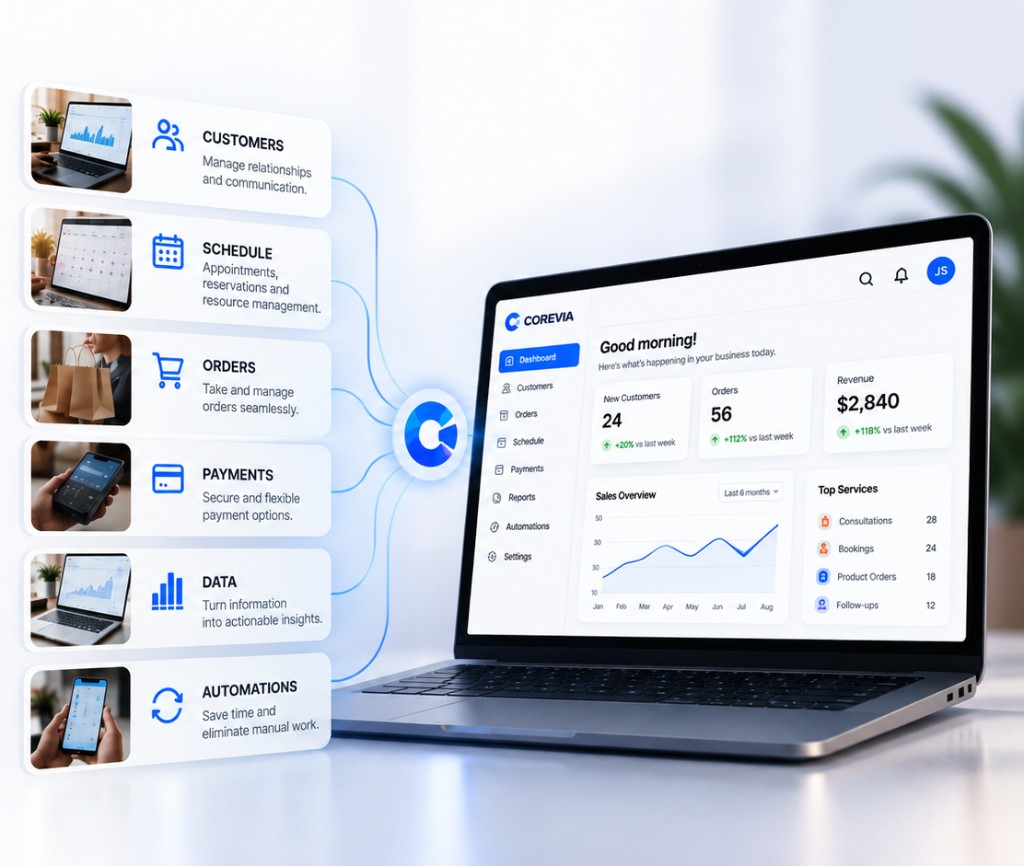
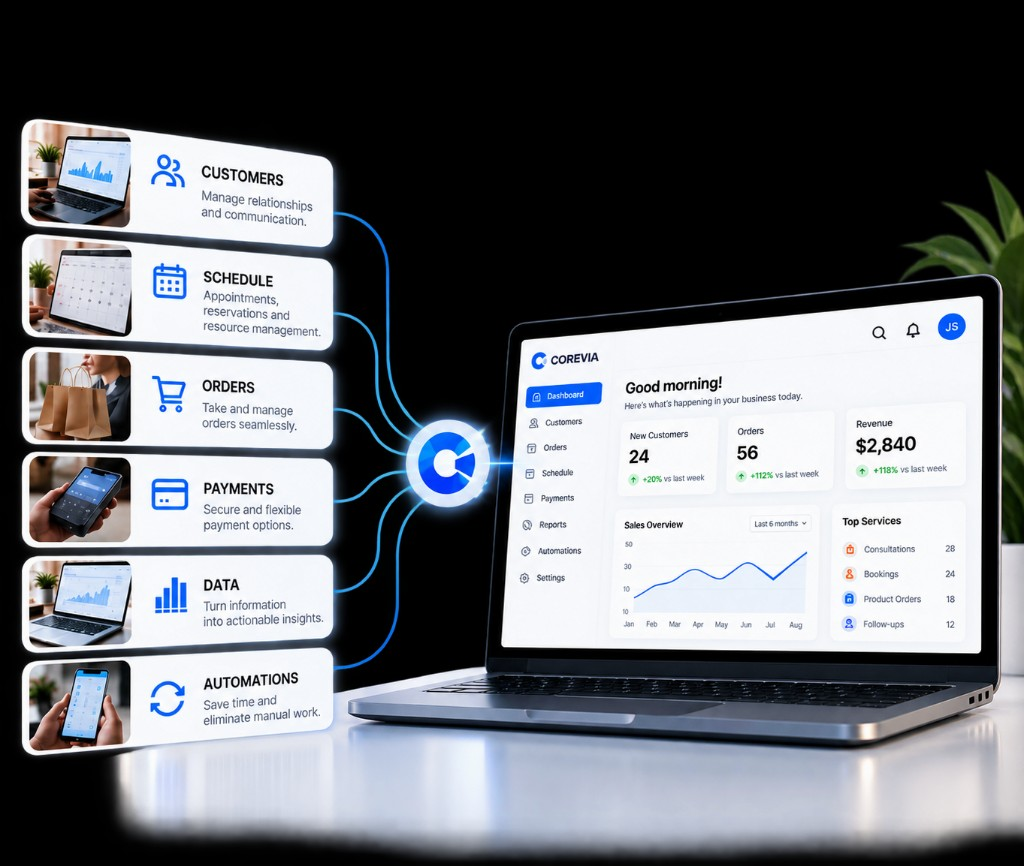
Update built around business graphics

diff --git a/components/sections/built-around-business.tsx b/components/sections/built-around-business.tsx
@@ -18,7 +18,7 @@ const BUILT_AROUND_VISUAL: Record<AppLocale, string> = {
   es: "/images/home/built-around-business-es.jpg",
 };
 
-/** Intrinsic size of the approved cropped workflow visuals (do not crop/distort). */
+/** Intrinsic size of the approved workflow visuals (do not crop/distort). */
 const VISUAL_WIDTH = 1024;
 const VISUAL_HEIGHT = 866;
 
@@ -41,7 +41,7 @@ export function BuiltAroundBusiness() {
     >
       <Container size="lg">
         <motion.div
-          className="grid items-center gap-10 md:gap-12 lg:grid-cols-2 lg:gap-14 xl:gap-16"
+          className="grid items-start gap-10 md:gap-12 lg:grid-cols-2 lg:gap-14 xl:gap-16"
           initial={reduceMotion ? false : "hidden"}
           whileInView="visible"
           viewport={{ once: true, amount: 0.2 }}
@@ -75,14 +75,14 @@ export function BuiltAroundBusiness() {
 
           <motion.div
             variants={reduceMotion ? undefined : staggerItem}
-            className="w-full min-w-0"
+            className="w-full min-w-0 bg-transparent"
           >
             <Image
               src={visualSrc}
               alt={t("imageAlt")}
               width={VISUAL_WIDTH}
               height={VISUAL_HEIGHT}
-              className="h-auto w-full max-w-full object-contain"
+              className="h-auto w-full max-w-full bg-transparent object-contain"
               sizes="(max-width: 1023px) 100vw, (max-width: 1280px) 46vw, min(36rem, 46vw)"
               priority={false}
             />
